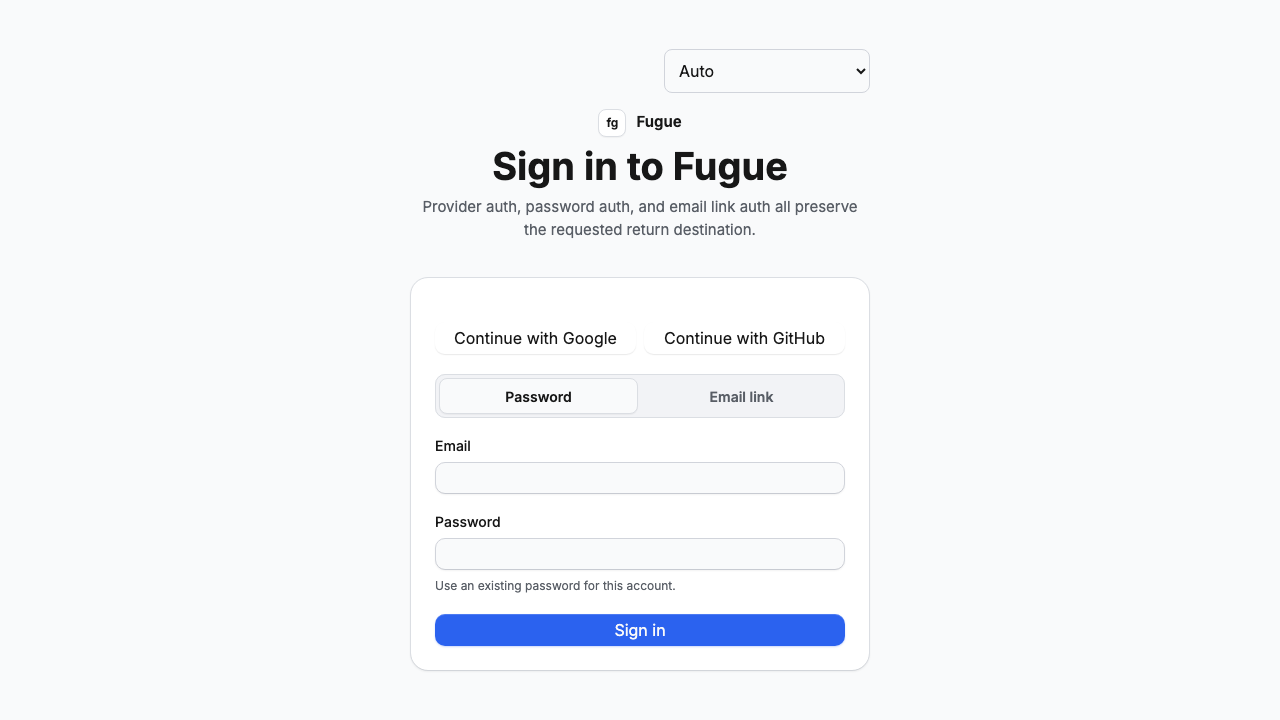
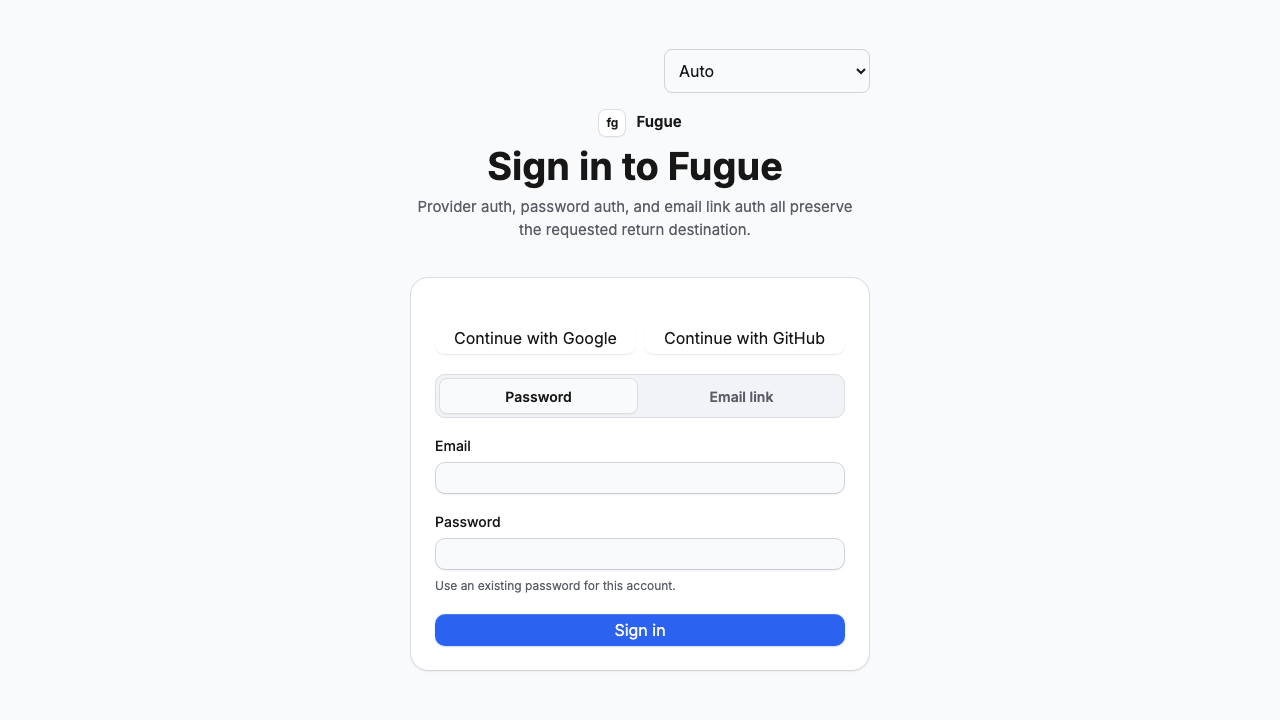
fix(perf): stabilize cold-font page headers
Use a deterministic PageHeader grid to prevent font-swap wrapping, collect Web Vitals CLS session windows with source evidence, and make the WebKit focus assertion wait for Base UI focus guards to settle.

Changed region(s): [[0.3125, 0.2139, 0.6875, 0.3361]]

diff --git a/apps/web/test/browser/performance-and-screen-reader.e2e.spec.ts b/apps/web/test/browser/performance-and-screen-reader.e2e.spec.ts
@@ -4,16 +4,26 @@ import path from "node:path";
 import { expect, test } from "@playwright/test";
 
 type PerformanceSmokeState = {
-  cls: number;
   eventTimings: Array<{
     duration: number;
     interactionId: number;
     name: string;
     startTime: number;
   }>;
+  layoutShifts: Array<{
+    sources: Array<{
+      currentRect: string;
+      node: string;
+      previousRect: string;
+    }>;
+    startTime: number;
+    value: number;
+  }>;
   lcp: number;
   longTasks: number[];
 };
+
+const FONT_LOAD_DELAY_MS = 300;
 
 test("records local navigation, web-vital, long-task, and interaction smoke", async ({
   page,
@@ -25,8 +35,8 @@ test("records local navigation, web-vital, long-task, and interaction smoke", as
 
   await page.addInitScript(() => {
     const state: PerformanceSmokeState = {
-      cls: 0,
       eventTimings: [],
+      layoutShifts: [],
       lcp: 0,
       longTasks: [],
     };
@@ -55,9 +65,40 @@ test("records local navigation, web-vital, long-task, and interaction smoke", as
       for (const entry of entries) {
         const shift = entry as PerformanceEntry & {
           hadRecentInput?: boolean;
+          sources?: Array<{
+            currentRect?: DOMRectReadOnly;
+            node?: Node;
+            previousRect?: DOMRectReadOnly;
+          }>;
           value?: number;
         };
-        if (!shift.hadRecentInput) state.cls += shift.value ?? 0;
+        if (shift.hadRecentInput) continue;
+
+        state.layoutShifts.push({
+          sources: (shift.sources ?? []).map((source) => {
+            const node = source.node;
+            const nodeLabel =
+              node instanceof HTMLElement
+                ? node.dataset.slot ||
+                  [...node.classList].slice(0, 2).join(".") ||
+                  node.tagName.toLowerCase()
+                : node?.nodeName.toLowerCase() || "unknown";
+            const serializeRect = (rect?: DOMRectReadOnly) =>
+              rect
+                ? [rect.x, rect.y, rect.width, rect.height]
+                    .map((value) => Math.round(value * 10) / 10)
+                    .join(",")
+                : "";
+
+            return {
+              currentRect: serializeRect(source.currentRect),
+              node: nodeLabel,
+              previousRect: serializeRect(source.previousRect),
+            };
+          }),
+          startTime: shift.startTime,
+          value: shift.value ?? 0,
+        });
       }
     });
     observe("longtask", (entries) => {
@@ -94,8 +135,17 @@ test("records local navigation, web-vital, long-task, and interaction smoke", as
     });
   });
 
+  await page.route("**/inter-*.woff2", async (route) => {
+    await new Promise((resolve) => setTimeout(resolve, FONT_LOAD_DELAY_MS));
+    await route.continue();
+  });
+
   await page.goto("/docs");
   await expect(page.getByRole("heading", { level: 1 })).toBeVisible();
+  await expect(page.locator(".coss-page-header__row").first()).toHaveCSS(
+    "display",
+    "grid",
+  );
   await page.waitForLoadState("networkidle");
   await page.waitForTimeout(1_000);
 
@@ -132,9 +182,31 @@ test("records local navigation, web-vital, long-task, and interaction smoke", as
       (total, duration) => total + Math.max(0, duration - 50),
       0,
     );
+    const sortedShifts = [...state.layoutShifts].sort(
+      (left, right) => left.startTime - right.startTime,
+    );
+    let cls = 0;
+    let sessionValue = 0;
+    let sessionStart = 0;
+    let previousShift = 0;
+
+    for (const shift of sortedShifts) {
+      if (
+        sessionValue === 0 ||
+        shift.startTime - previousShift > 1_000 ||
+        shift.startTime - sessionStart > 5_000
+      ) {
+        sessionValue = shift.value;
+        sessionStart = shift.startTime;
+      } else {
+        sessionValue += shift.value;
+      }
+      previousShift = shift.startTime;
+      cls = Math.max(cls, sessionValue);
+    }
 
     return {
-      cls: state.cls,
+      cls,
       eventTiming: state.eventTimings,
       eventTimingMax: Math.max(0, ...state.eventTimings.map((entry) => entry.duration)),
       interactionEventTimingMax: Math.max(
@@ -144,6 +216,7 @@ test("records local navigation, web-vital, long-task, and interaction smoke", as
           .map((entry) => entry.duration),
       ),
       lcpMs: state.lcp,
+      layoutShifts: sortedShifts,
       longTaskCount: state.longTasks.length,
       navigation: {
         domCompleteMs: navigation.domComplete,
@@ -161,6 +234,7 @@ test("records local navigation, web-vital, long-task, and interaction smoke", as
   });
   const report = {
     capturedAt: new Date().toISOString(),
+    fontLoadDelayMs: FONT_LOAD_DELAY_MS,
     mode: "local Playwright smoke; synthetic lab signal, not field telemetry",
     route: "/docs",
     browser: testInfo.project.name,

diff --git a/apps/web/app/globals.css b/apps/web/app/globals.css
@@ -262,6 +262,16 @@ select:disabled {
   margin-bottom: 20px;
 }
 
+.coss-page-header__row {
+  display: grid;
+  width: 100%;
+  min-width: 0;
+  max-width: 100%;
+  align-items: center;
+  gap: 10px;
+  grid-template-columns: minmax(0, 1fr) auto;
+}
+
 .coss-page-header--center {
   justify-items: center;
   margin-inline: auto;
@@ -1061,6 +1071,15 @@ select:disabled {
 }
 
 @media (max-width: 980px) {
+  .coss-page-header__row {
+    grid-template-columns: minmax(0, 1fr);
+    justify-items: start;
+  }
+
+  .coss-page-header--center .coss-page-header__row {
+    justify-items: center;
+  }
+
   .coss-hero-grid,
   .coss-split,
   .coss-docs-grid,

diff --git a/apps/web/test/browser/core.e2e.spec.ts b/apps/web/test/browser/core.e2e.spec.ts
@@ -497,12 +497,7 @@ test.describe("keyboard and interaction contracts", () => {
 
     for (let index = 0; index < 6; index += 1) {
       await page.keyboard.press("Tab");
-      expect(
-        await page.evaluate(() => {
-          const activeElement = document.activeElement;
-          return Boolean(activeElement?.closest('[role="dialog"]'));
-        }),
-      ).toBe(true);
+      await expect(dialog.locator(":focus")).toHaveCount(1);
     }
 
     await page.keyboard.press("Escape");

diff --git a/apps/web/components/shared/page-header.tsx b/apps/web/components/shared/page-header.tsx
@@ -21,7 +21,7 @@ export function PageHeader({
       data-slot="page-header"
     >
       {eyebrow ? <span className="coss-eyebrow">{eyebrow}</span> : null}
-      <div className="coss-row coss-row--between">
+      <div className="coss-page-header__row">
         <div className="coss-stack-sm">
           <h1 className="coss-page-title">{title}</h1>
           {description ? <p className="coss-page-description">{description}</p> : null}

diff --git a/docs/remediation-evidence/wp-13-protected-route-preauthorization.md b/docs/remediation-evidence/wp-13-protected-route-preauthorization.md
@@ -1,6 +1,7 @@
 # WP-13 protected-route preauthorization follow-up
 
-Status: implementation verified locally; production redeploy evidence pending.
+Status: implementation and CI follow-up fixes verified locally; PR #13 required
+checks and production redeploy evidence pending.
 
 ## Production observation
 
@@ -73,9 +74,38 @@ The E2E matrix increased from 200 to 205 project cases because the new raw
 server invariant runs once and is explicitly skipped in the four redundant
 browser projects.
 
+## PR #13 first CI follow-up
+
+The first [`frontend-quality` run
[phone redacted]](https://github.com/yym68686/fugue-web/actions/runs/29241356425)
+passed every required job except E2E. Chromium reproduced a real cold-font Docs
+CLS of `0.5973580610487197` in all three attempts. Its retained trace showed the
+PageHeader action wrapping below the title under the fallback font and moving
+back to the right after Inter loaded. The shared title/action row now has a
+deterministic two-column grid and a one-column responsive breakpoint. The
+performance smoke deliberately delays Inter by 300 ms, records shift sources,
+uses the Web Vitals session-window algorithm, and passed 3/3 focused reruns at
+CLS `0.0001807850996653239` without changing the `0.1` threshold.
+
+The same CI run's WebKit Drawer test failed its first immediate JavaScript focus
+sample and passed on retry. The Base UI focus guards can briefly own focus before
+the modal trap redirects it into the dialog. The test now uses Playwright's
+auto-retrying `:focus` locator after every Tab; the product focus trap, Escape
+close, inert background, and trigger restoration are unchanged. A clean
+production build passed this WebKit scenario 10/10.
+
+One earlier combined local repetition surfaced a cancelled prefetched Auth
+chunk while two developer builds overlapped the same `.next` output. The trace
+showed the static directory was replaced after that request began. Serialized
+fresh-port production builds reproduced neither the response nor any console
+error in the 10 focus and 3 cold-font repetitions above. It is therefore not
+suppressed by the browser failure monitor and is not classified as an
+application runtime defect.
+
 ## Release and rollback
 
-This is a normal forward fix through a focused branch, pull request, required
+This is a normal forward fix through the focused
+[`fugue-web#13`](https://github.com/yym68686/fugue-web/pull/13) branch, required
 GitHub Actions checks, merge to `main`, and Fugue's automatic import/build/deploy
 path. No SSH change, manual Deployment patch, service restart, or image sync was
 performed.

diff --git a/docs/remediation-evidence/remediation-plan-audit-2026-07-12.md b/docs/remediation-evidence/remediation-plan-audit-2026-07-12.md
@@ -24,6 +24,12 @@
   `start-standalone.mjs`，没有 unsupported `next start` 警告。
 - 当前 browser matrix 是 **205 个 Playwright project cases：107 passed、98 个预期
   capability skip、0 failed**；axe 独立矩阵是 **8/8 passed**。
+- 当前 follow-up 位于 [`fugue-web#13`](https://github.com/yym68686/fugue-web/pull/13)。
+  首轮 [`frontend-quality` run
+  29241356425](https://github.com/yym68686/fugue-web/actions/runs/29241356425) 的非 E2E
+  required jobs 全绿；E2E 留存 trace 发现真实冷字体 PageHeader CLS 与一个 WebKit
+  即时 focus 采样竞态。确定性 grid、300 ms 字体延迟回归和 web-first focus 断言已在
+  本地分别连续 3/3 与 10/10 通过，尚待新提交上的远端 required checks 关闭 Gate B。
 - 当前有 **10 张** post-remediation 截图：marketing、Docs、sign-in、sign-up、Console
   各 desktop/mobile。desktop Console 初次人工复核发现的视觉缺陷已修复；desktop/mobile
   Console 截图已重新生成，10 张截图均已人工复核通过，且没有通过放大阈值掩盖回归。
@@ -60,6 +66,8 @@
 - 首轮 GitGuardian 将三个 CI PostgreSQL 示例密码识别为 secret；workflow 改用隔离
   runner 的 passwordless service，并从 PR 历史移除示例密码后通过。
 - 上述 workflow 不作为当前 follow-up 的 CI 证明；主计划 Gate B 对应项已重新打开。
+- PR #13 首轮 run `29241356425` 也不提前算作通过：它发现的 E2E 回归已经本地修复，
+  但必须等修复提交对应的新 run 全绿后，才能勾选 Gate B。
 
 ## 3. Auth、权限与产品行为复核
 

diff --git a/docs/frontend-code-review-remediation-plan-2026-07-12.md b/docs/frontend-code-review-remediation-plan-2026-07-12.md
@@ -1407,13 +1407,13 @@ R2、R3、R4 不合并为一个发布单元：它们分别涉及数据库/授权
 | WP-05 | Codex | `12d0b16`、`705d95a`；[PR #1](https://github.com/yym68686/fugue-web/pull/1) | frozen install、security audit 0 advisory、lock review、versions gate 全绿 | lockfile source/install-script review 已归档 | 2026-07-13 | Implementation PR merged；production deployed |
 | WP-06 | Codex | `fugue@c7643ee/9cb0269/5246335`；Web `b892f09`、`705d95a`；[PR #1](https://github.com/yym68686/fugue-web/pull/1) | `fugue/main@409bd6c` snapshot hash parity + contract matrix 全绿 | 特殊协议 inventory 已签字式归档 | 2026-07-13 | Backend authority and Web contract released |
 | WP-07 | Codex | `b892f09`；[PR #1](https://github.com/yym68686/fugue-web/pull/1) | server guard、Auth form、Env identity、authenticated E2E 全绿 | 产品行为自动化通过 | 2026-07-13 | Implementation PR merged；production deployed |
-| WP-08 | Codex | `b892f09`、`705d95a`；[PR #1](https://github.com/yym68686/fugue-web/pull/1) | build 同轮 bundle gate、19 routes、性能 artifacts 全绿 | 真实流量指标待 follow-up 稳定窗口归档 | 2026-07-13 | Implementation PR merged；production observation pending |
+| WP-08 | Codex | `b892f09`、`705d95a`；[PR #1](https://github.com/yym68686/fugue-web/pull/1)；[PR #13](https://github.com/yym68686/fugue-web/pull/13) | build 同轮 bundle gate、19 routes；300 ms 冷字体 smoke CLS 0.000181、TBT 0，连续 3/3 通过 | PR #13 首轮 CI 发现的 PageHeader CLS 已前向修复；真实流量指标待稳定窗口归档 | 2026-07-13 | Implementation PR merged；follow-up CI pending |
 | WP-09A | Codex | `48367a0`、`3441cd1`；[PR #1](https://github.com/yym68686/fugue-web/pull/1) | registry/build/sync/theme/provenance/license/SBOM gates 全绿 | owner 已书面批准可使用全部 COSS 代码；实际 release 仍保持更窄的已审计来源边界 | 2026-07-13 | Owner gate passed；最终 release archive 待 closeout |
 | WP-09B | Codex | `b892f09`；[PR #1](https://github.com/yym68686/fugue-web/pull/1) | consumer/source contracts、bundle、E2E 全绿 | Console desktop/mobile 缺陷已修复，截图重生成并人工复核通过 | 2026-07-13 | Implementation PR merged；production deployed |
 | WP-10 | Codex | `48367a0`、`705d95a`；[PR #1](https://github.com/yym68686/fugue-web/pull/1) | Playwright 107 pass / 98 expected skip；axe 8/8；Base UI keyboard harness 通过 | 10 张 desktop/mobile 截图人工复核通过 | 2026-07-13 | Implementation PR merged；生产观察中 |
 | WP-11 | Codex | 后端 feature 已入 `fugue/main`；Web `b892f09`、`705d95a`；[PR #1](https://github.com/yym68686/fugue-web/pull/1) | pagination、deferred identity、cache race unit/integration/E2E 全绿 | 自动化规模/乱序场景通过 | 2026-07-13 | Backend and Web released；observation pending |
 | WP-12 | Codex | `b892f09`、`705d95a`；[PR #1](https://github.com/yym68686/fugue-web/pull/1) | i18n 454 keys/3 locales、SEO、browser/viewport gates 全绿 | desktop/mobile/zoom/high-contrast/reduced-motion 复核通过 | 2026-07-13 | Implementation PR merged；生产观察中 |
-| WP-13 | Codex | `705d95a`、`8011e8f`、`c490459`、`aa49522`；[PR #1](https://github.com/yym68686/fugue-web/pull/1)；[`protected-route follow-up`](./remediation-evidence/wp-13-protected-route-preauthorization.md) | `4f1aba0` 全新 clone 的 25 项门禁全绿；当前 E2E 107/98；axe 8/8；container 通过 | 首发生产流式边界已复现并前向修复；待 follow-up 发布与稳定观察 | 2026-07-13 | Implementation PR merged；preauthorization follow-up 验证中 |
+| WP-13 | Codex | `705d95a`、`8011e8f`、`c490459`、`aa49522`；[PR #1](https://github.com/yym68686/fugue-web/pull/1)；[PR #13](https://github.com/yym68686/fugue-web/pull/13)；[`protected-route follow-up`](./remediation-evidence/wp-13-protected-route-preauthorization.md) | `4f1aba0` 全新 clone 的 25 项门禁全绿；当前 E2E 107/98；axe 8/8；WebKit Drawer 10/10、冷字体 CLS 3/3 | 首发生产流式边界与 PR #13 首轮 CI 缺陷均已复现并前向修复；待新 required checks、发布与稳定观察 | 2026-07-13 | Implementation PR merged；preauthorization follow-up CI pending |
 
 ## 18. 本方案参考的方法
 